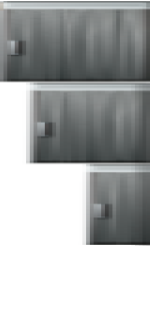
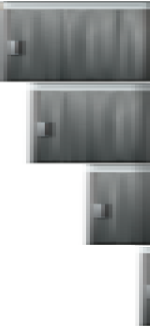
fix pixelLocalBounds

Changed region(s): [[0.9067, 0.7317, 1.0, 1.0]]

diff --git a/code/Utils/Utility.cpp b/code/Utils/Utility.cpp
@@ -77,8 +77,7 @@ sf::FloatRect pixelLocalBounds(const sf::Sprite& sprite) {
   const int width = textureRect.width;
   const int height = textureRect.height;
 
-  sf::FloatRect result = {0, 0, static_cast<float>(width),
-                          static_cast<float>(height)};
+  sf::FloatRect result = {0, 0, 0, 0};
   bool is_top = false;
   bool is_left = false;
   bool is_width = false;
@@ -88,8 +87,8 @@ sf::FloatRect pixelLocalBounds(const sf::Sprite& sprite) {
     for (int j = 0; j < height; ++j) {
       const sf::Color pixel =
         image.getPixel(static_cast<unsigned int>(textureRect.left + i),
-                       static_cast<unsigned int>(j + textureRect.top));
-      if (pixel.a == 0)
+                       static_cast<unsigned int>(textureRect.top + j));
+      if (pixel.a < 50)
         continue;
 
       float fi = static_cast<float>(i);
@@ -104,14 +103,14 @@ sf::FloatRect pixelLocalBounds(const sf::Sprite& sprite) {
         result.left = fi;
       }
 
-      if (!is_width || fi > result.width) {
+      if (is_left && (!is_width || (fi - result.left) > result.width)) {
         is_width = true;
-        result.width = fi;
+        result.width = fi - result.left;
       }
 
-      if (!is_height || fj > result.height) {
+      if (is_top && (!is_height || (fj - result.top) > result.height)) {
         is_height = true;
-        result.height = fj;
+        result.height = fj - result.top;
       }
     }
   if (!(is_top && is_left && is_width && is_height))
